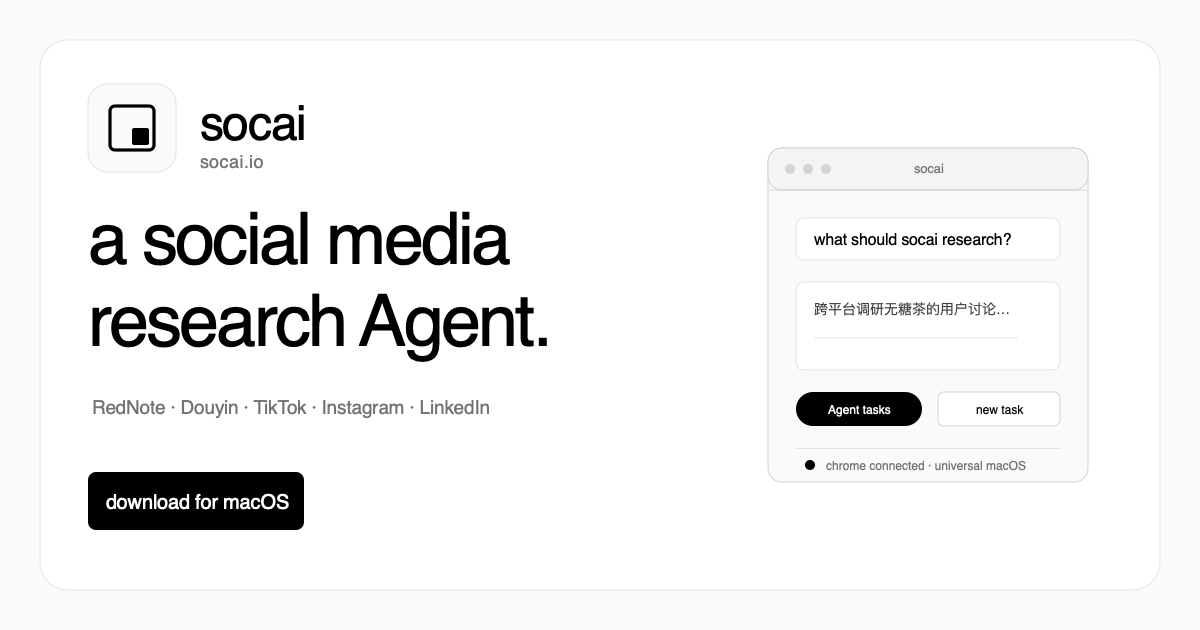
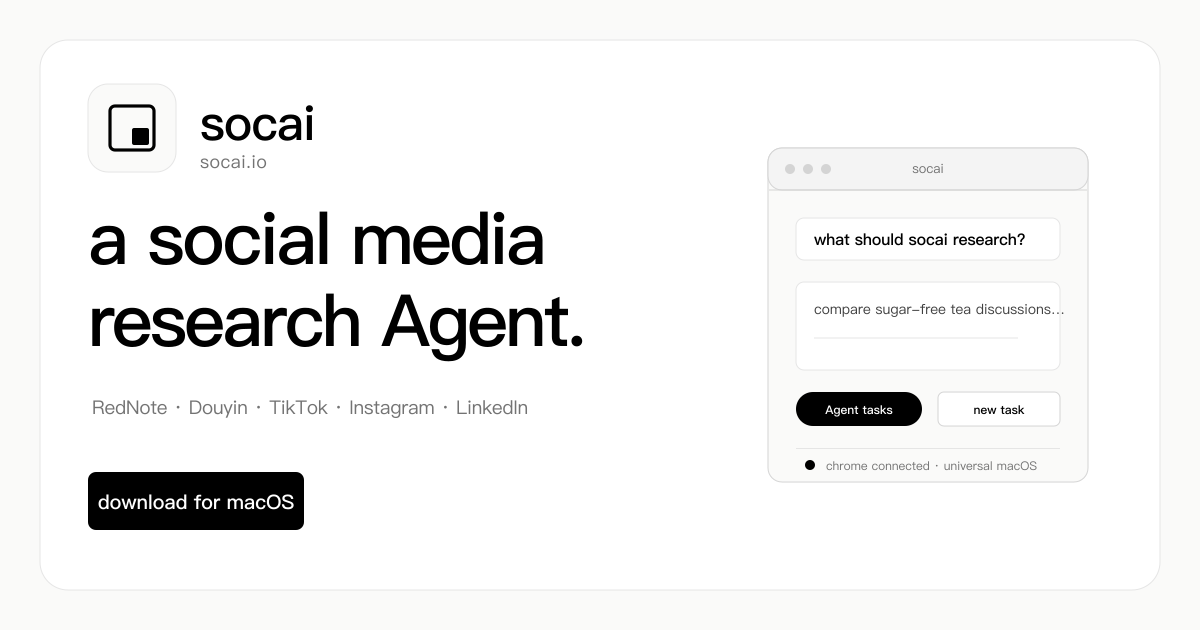
feat(site): default socai.io to English and add X
Lead the homepage in English, show X with the other platforms, and drop the rule that forced the brand name lowercase in prose.

diff --git a/site/src/scripts/site.ts b/site/src/scripts/site.ts
@@ -22,7 +22,7 @@ let typewriterRun = 0;
 const isSupportedLanguage = (language) => supportedLanguages.includes(language);
 
 const getMessage = (language, path) => {
-    const table = dictionary[language] || dictionary.zh || dictionary.en || {};
+    const table = dictionary[language] || dictionary.en || dictionary.zh || {};
     const value = path
         .split(".")
         .reduce((cursor, key) => cursor?.[key], table);
@@ -119,11 +119,11 @@ const chooseInitialLanguage = () => {
         // Ignore storage errors and fall back to the default language.
     }
 
-    return "zh";
+    return "en";
 };
 
 const applyLanguage = (language, shouldPersist = false) => {
-    const nextLanguage = isSupportedLanguage(language) ? language : "zh";
+    const nextLanguage = isSupportedLanguage(language) ? language : "en";
     const htmlLanguage = nextLanguage === "zh" ? "zh-CN" : "en";
 
     document.documentElement.lang = htmlLanguage;
@@ -179,7 +179,7 @@ const applyLanguage = (language, shouldPersist = false) => {
     });
 
     startTypewriter(
-        dictionary[nextLanguage]?.prompts || dictionary.zh?.prompts || [],
+        dictionary[nextLanguage]?.prompts || dictionary.en?.prompts || [],
     );
 
     if (shouldPersist) {
@@ -193,7 +193,7 @@ const applyLanguage = (language, shouldPersist = false) => {
 
 languageOptions.forEach((option) => {
     option.addEventListener("click", () => {
-        applyLanguage(option.getAttribute("data-lang-option") || "zh", true);
+        applyLanguage(option.getAttribute("data-lang-option") || "en", true);
     });
 });
 
@@ -202,7 +202,7 @@ document.querySelectorAll("[data-download-platform]").forEach((link) => {
         track("download_click", {
             platform:
                 link.getAttribute("data-download-platform") || "unknown",
-            language: document.documentElement.dataset.language || "zh",
+            language: document.documentElement.dataset.language || "en",
         });
     });
 });
@@ -213,7 +213,7 @@ document.querySelectorAll("[data-copy]").forEach((button) => {
     button.addEventListener("click", () => {
         const text = button.getAttribute("data-copy") || "";
         const restore = () => {
-            const language = document.documentElement.dataset.language || "zh";
+            const language = document.documentElement.dataset.language || "en";
             const copiedPath = button.getAttribute("data-i18n-copied");
             const labelPath = button.getAttribute("data-i18n");
 

diff --git a/site/src/styles/global.css b/site/src/styles/global.css
@@ -271,11 +271,25 @@ html[data-language="zh"] .hero h1 {
 }
 
 .hero__subtitle {
-  max-width: 48em;
+  display: flex;
+  flex-direction: column;
+  align-items: center;
+  gap: 10px;
+  max-width: 46em;
   margin: 0 auto 36px;
   color: var(--fg-soft);
   font-size: clamp(14px, 1.7vw, 16px);
   line-height: 1.55;
+}
+
+.hero__subtitle-lead,
+.hero__subtitle-rest {
+  display: block;
+  max-width: 100%;
+}
+
+.hero__subtitle-rest {
+  max-width: 40em;
   text-wrap: balance;
 }
 
@@ -284,6 +298,96 @@ html[data-language="zh"] .hero h1 {
   align-items: stretch;
   justify-content: center;
   gap: 10px;
+}
+
+.hero__actions .button {
+  height: 44px;
+}
+
+.hero__actions .button--primary {
+  gap: 8px;
+  padding: 0 18px;
+  font-size: 14px;
+}
+
+.hero__actions .button--secondary {
+  gap: 8px;
+  padding: 0 16px;
+  font-size: 13px;
+}
+
+.hero__actions .button__glyph,
+.hero__actions .button__external {
+  font-size: 12px;
+}
+
+.hero__install {
+  width: min(100%, 640px);
+  margin: 28px auto 0;
+}
+
+.hero__install-lead {
+  margin: 0 0 12px;
+  color: var(--ink-0);
+  font-size: 16px;
+  font-weight: 500;
+  letter-spacing: -0.015em;
+}
+
+.hero__install-row {
+  display: flex;
+  align-items: center;
+  gap: 8px;
+  padding: 8px 8px 8px 14px;
+  border: 1px solid var(--line);
+  border-radius: 6px;
+  background: var(--surface);
+  text-align: left;
+}
+
+.hero__install-row code {
+  flex: 1;
+  min-width: 0;
+  color: var(--fg);
+  font-family: var(--font-mono);
+  font-size: 12.5px;
+  font-weight: 400;
+  letter-spacing: var(--ls-mono);
+  line-height: 1.45;
+}
+
+.hero__install-copy {
+  display: inline-flex;
+  flex: 0 0 auto;
+  align-items: center;
+  justify-content: center;
+  width: 32px;
+  height: 32px;
+  border-radius: 6px;
+  background: transparent;
+  color: var(--fg-muted);
+  cursor: pointer;
+}
+
+.hero__install-copy:hover {
+  background: var(--surface-2);
+  color: var(--ink-0);
+}
+
+.hero__install-copy.is-copied {
+  color: var(--ink-0);
+}
+
+.hero__install-copy .icon-check {
+  display: none;
+}
+
+.hero__install-copy.is-copied .icon-copy {
+  display: none;
+}
+
+.hero__install-copy.is-copied .icon-check {
+  display: block;
 }
 
 .button {

diff --git a/app/src/lib/platforms.ts b/app/src/lib/platforms.ts
@@ -3,7 +3,7 @@ import xhsIcon from "../../../site/public/platforms/xiaohongshu.png";
 import videoIcon from "../../../site/public/platforms/tiktok.png";
 import instagramIcon from "../../../site/public/platforms/instagram.png";
 import linkedinIcon from "../../../site/public/platforms/linkedin.svg";
-import xIcon from "../assets/platforms/x.svg?raw";
+import xIcon from "../../../site/public/platforms/x.png";
 
 const SOURCE_STORAGE_KEY = "socai-research-sources";
 const icons: Record<string, string> = {
@@ -16,7 +16,7 @@ export function platformIcon(site: string): string {
     return `<span class="platform-icon" aria-hidden="true"><svg viewBox="0 0 20 20" width="18" height="18" fill="none" stroke="currentColor" stroke-width="1.5"><path d="m10 1.5 2.1 6.4L18.5 10l-6.4 2.1L10 18.5l-2.1-6.4L1.5 10l6.4-2.1L10 1.5Z"/></svg></span>`;
   }
   const icon = icons[site];
-  const content = site === "x" ? xIcon : icon ? `<img src="${icon}" alt="" />` : "";
+  const content = icon ? `<img src="${icon}" alt="" />` : "";
   return `<span class="platform-icon" aria-hidden="true">${content}</span>`;
 }
 

diff --git a/AGENTS.md b/AGENTS.md
@@ -47,7 +47,7 @@ Rules:
 ## Desktop app — `app/`
 
 Stack: Tauri 2.11 (Rust shell) + Vite 6 + vanilla TypeScript (no UI framework).
-Bundle identifier `com.socai.app`. Product name lowercase `socai`.
+Bundle identifier `com.socai.app`.
 
 Layout:
 
@@ -65,8 +65,6 @@ pnpm exec tauri build --bundles app   # → target/release/bundle/macos/socai.ap
 
 Rules:
 
-- **Brand is always lowercase `socai`** — productName, window title, hero text,
-  error strings, comments. No Title Case anywhere.
 - **Design system is monochrome.** Use tokens from `app/src/styles.css`
   (`--ink-0..9`, `--canvas`, `--fg`, `--line`, etc.). **No accent colors.**
   Status is filled vs hollow, never hue.

diff --git a/README.ja.md b/README.ja.md
@@ -18,7 +18,7 @@
   &nbsp;&nbsp;
   <img src="site/public/platforms/linkedin.svg" height="32" alt="LinkedIn">
   &nbsp;&nbsp;
-  <img src="app/src/assets/platforms/x.svg" height="32" alt="X">
+  <img src="site/public/platforms/x.png" height="32" alt="X">
 </p>
 
 [![website](https://img.shields.io/badge/website-socai.io-555?style=flat-square&color=blue)](https://socai.io/?utm_source=github&utm_medium=readme)

diff --git a/README.ko.md b/README.ko.md
@@ -18,7 +18,7 @@
   &nbsp;&nbsp;
   <img src="site/public/platforms/linkedin.svg" height="32" alt="LinkedIn">
   &nbsp;&nbsp;
-  <img src="app/src/assets/platforms/x.svg" height="32" alt="X">
+  <img src="site/public/platforms/x.png" height="32" alt="X">
 </p>
 
 [![website](https://img.shields.io/badge/website-socai.io-555?style=flat-square&color=blue)](https://socai.io/?utm_source=github&utm_medium=readme)

diff --git a/README.md b/README.md
@@ -19,7 +19,7 @@
   &nbsp;&nbsp;
   <img src="site/public/platforms/linkedin.svg" height="32" alt="LinkedIn">
   &nbsp;&nbsp;
-  <img src="app/src/assets/platforms/x.svg" height="32" alt="X">
+  <img src="site/public/platforms/x.png" height="32" alt="X">
 </p>
 
 [![website](https://img.shields.io/badge/website-socai.io-555?style=flat-square&color=blue)](https://socai.io/?utm_source=github&utm_medium=readme)

diff --git a/README.zh-CN.md b/README.zh-CN.md
@@ -18,7 +18,7 @@
   &nbsp;&nbsp;
   <img src="site/public/platforms/linkedin.svg" height="32" alt="LinkedIn">
   &nbsp;&nbsp;
-  <img src="app/src/assets/platforms/x.svg" height="32" alt="X">
+  <img src="site/public/platforms/x.png" height="32" alt="X">
 </p>
 
 [![website](https://img.shields.io/badge/website-socai.io-555?style=flat-square&color=blue)](https://socai.io/?utm_source=github&utm_medium=readme)
